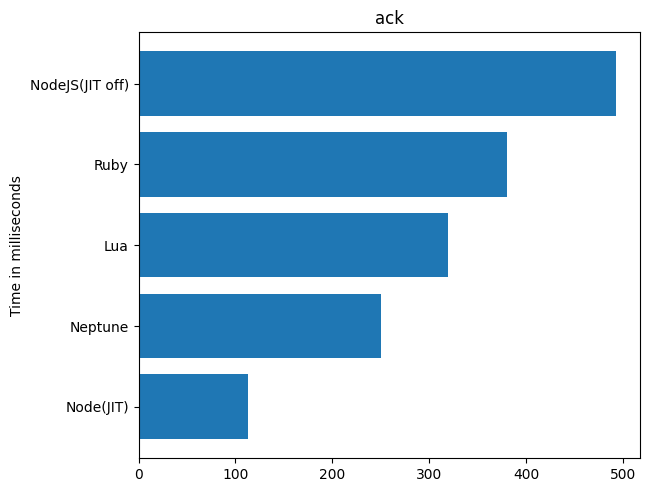
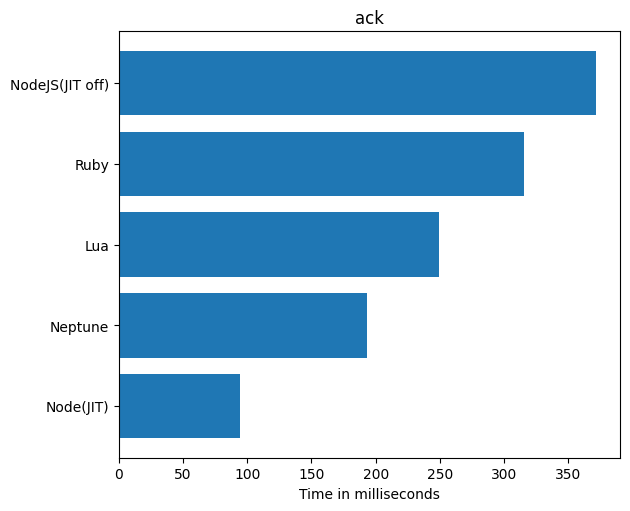
benchmark using clang;correct axis label

Changed region(s): [[0.0, 0.0, 0.9952, 0.9756], [0.0, 0.3659, 0.0302, 0.6402]]

diff --git a/bench/bench.py b/bench/bench.py
@@ -25,6 +25,6 @@ for benchmark in benchmarks:
     ax.barh(langs, [results[benchmark][l]for l in langs])
     plt.tight_layout()
     ax.set_title(benchmark)
-    plt.ylabel('Time in milliseconds')
+    plt.xlabel('Time in milliseconds')
     plt.savefig(f'{benchmark}.png', bbox_inches="tight")
     pass
